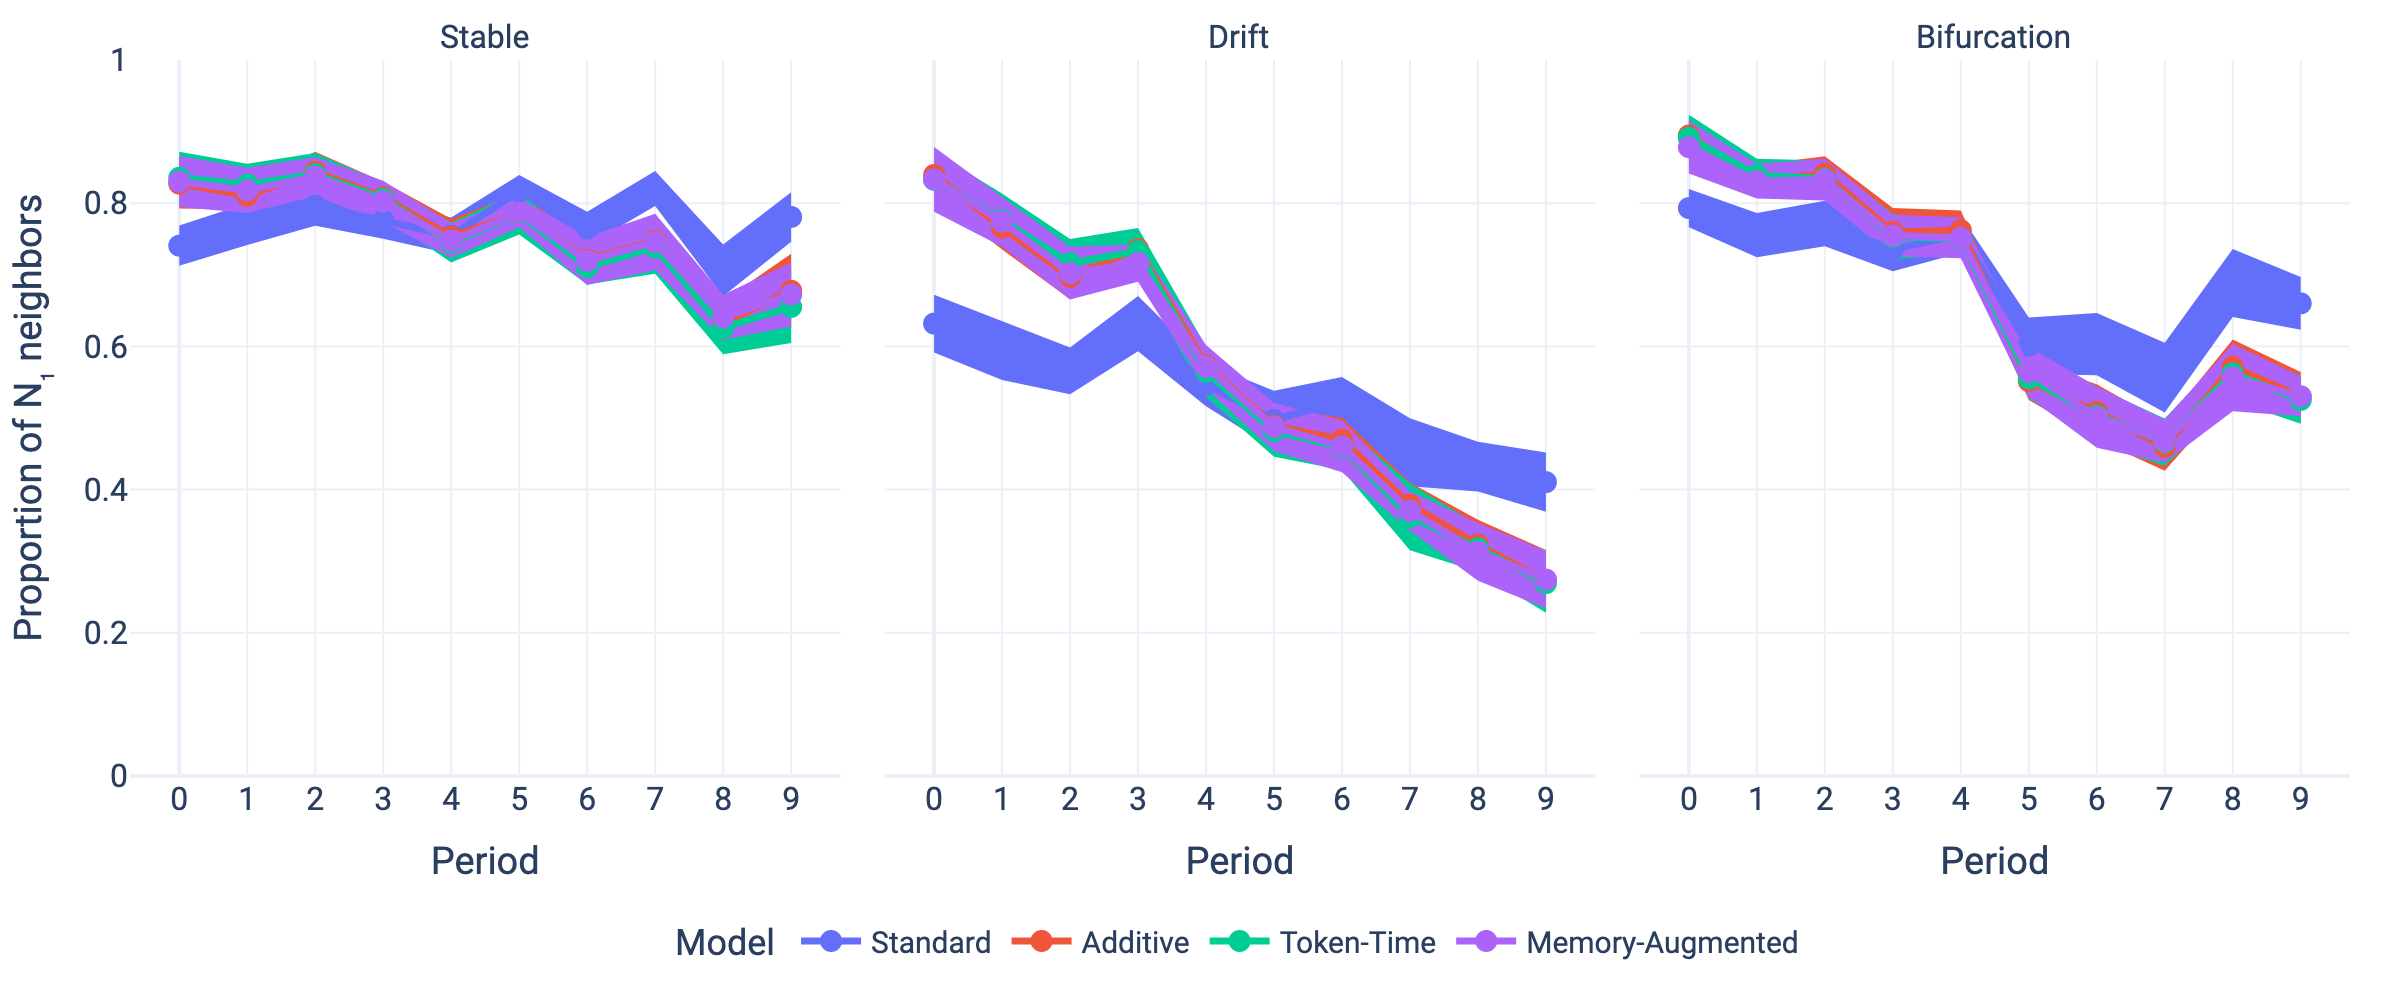
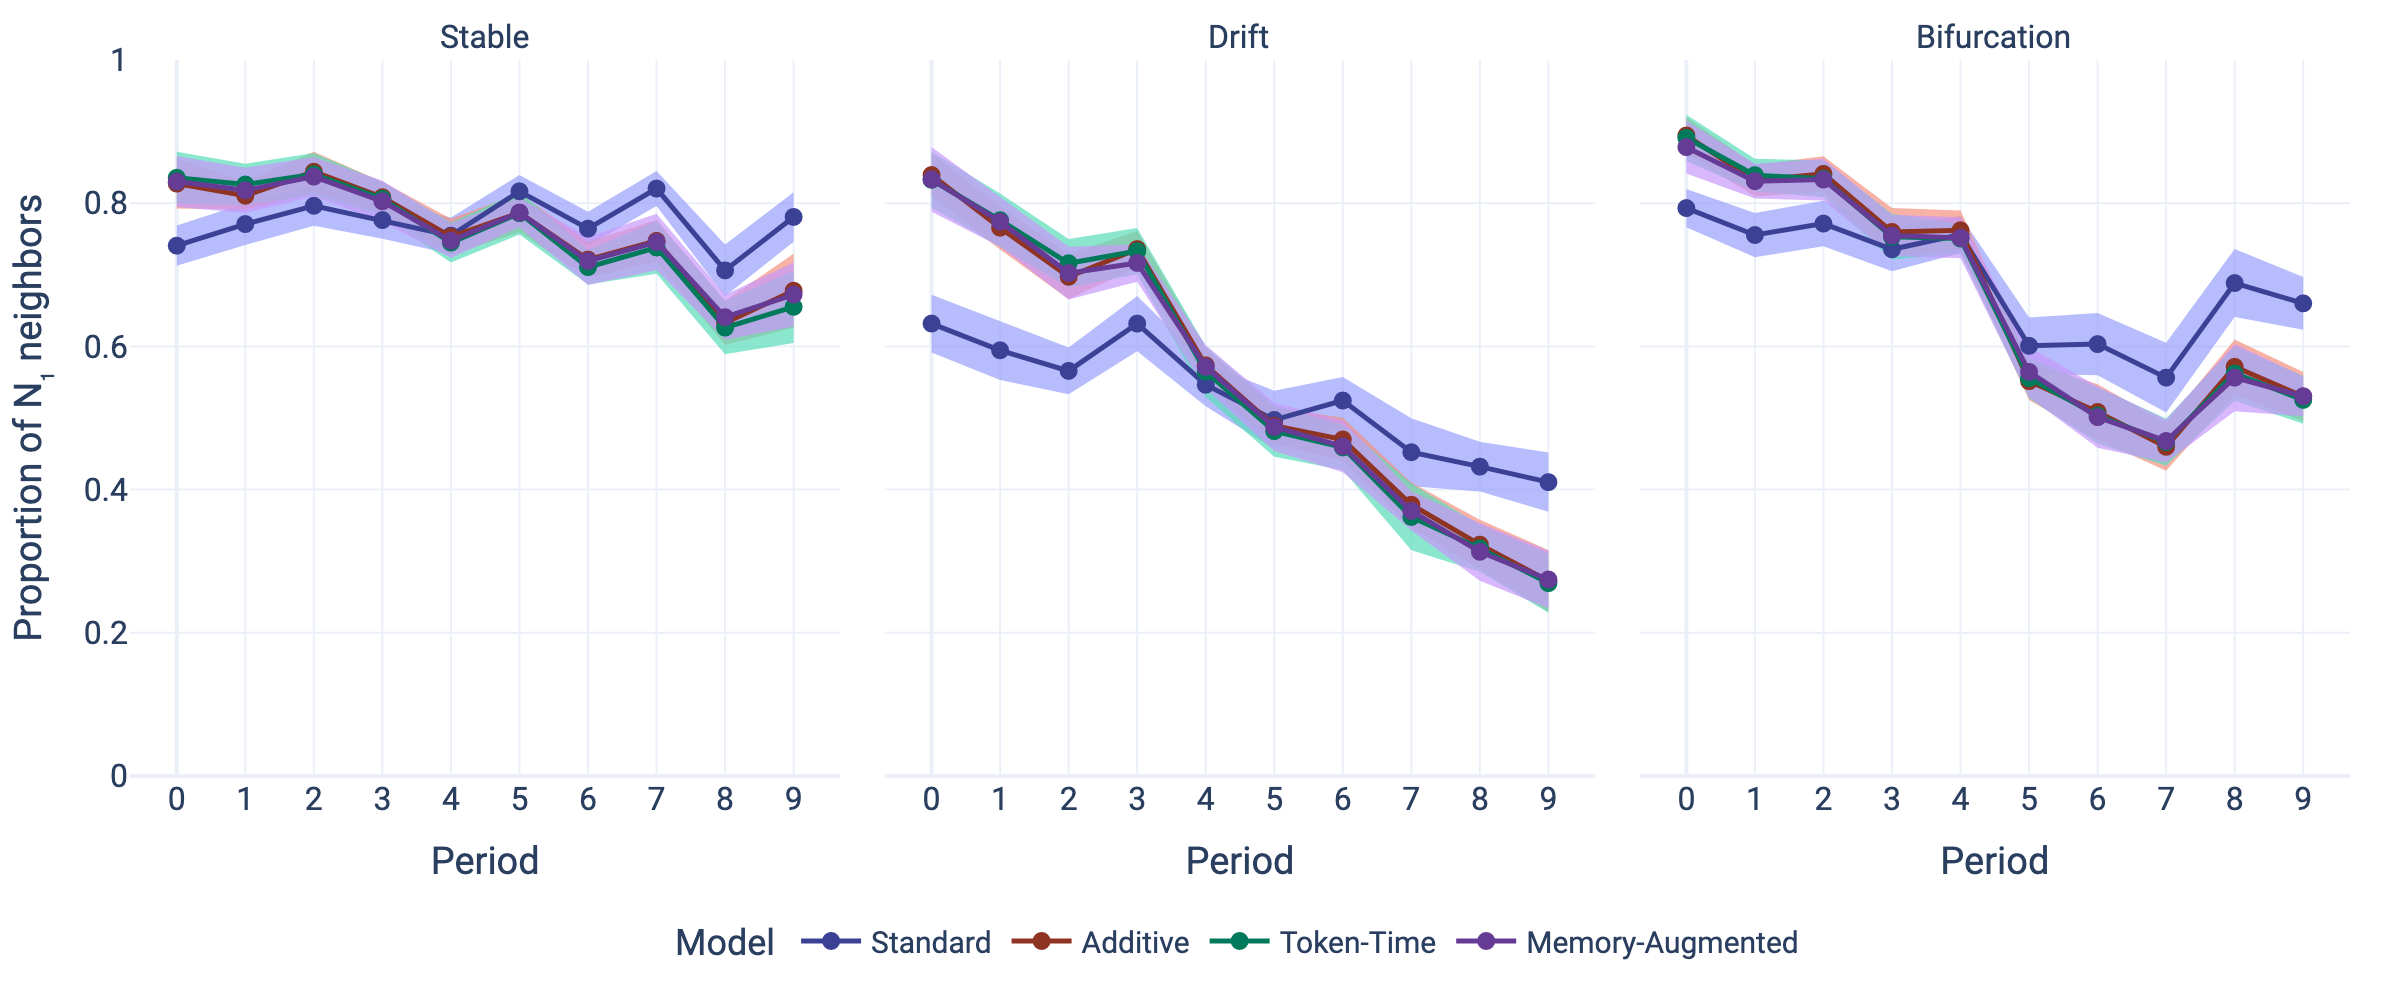
final before submission

diff --git a/scripts/plot_figure3_context_drift.py b/scripts/plot_figure3_context_drift.py
@@ -23,6 +23,36 @@ import plotly.io as pio
 from src.timeformer.nomenclature import model_label
 
 
+# ── Ajuste aqui para testar a aparência das linhas e bandas ──────────────────
+LINE_WIDTH  = 2.5   # espessura das linhas em px
+MARKER_SIZE = 9     # tamanho dos marcadores em px
+LINE_DARK   = 0.60  # escurece a cor da linha   (0.5 = muito escuro | 1.0 = cor original)
+BAND_LIGHT  = 0.35  # clareia a cor da banda     (0.0 = cor original | 1.0 = branco puro)
+BAND_ALPHA  = 0.70  # transparência da banda     (0 = invisível | 1 = sólido)
+# ──────────────────────────────────────────────────────────────────────────────
+
+
+def _to_rgb(color: str) -> tuple[int, int, int]:
+    """Parse hex (#rrggbb) or rgb(r,g,b) string into an (r,g,b) tuple."""
+    color = color.strip()
+    if color.startswith("#"):
+        h = color.lstrip("#")
+        return int(h[0:2], 16), int(h[2:4], 16), int(h[4:6], 16)
+    return tuple(int(v.strip()) for v in color[4:-1].split(","))
+
+
+def _darken(color: str, factor: float) -> str:
+    """Multiply each RGB channel by factor to darken the color."""
+    r, g, b = _to_rgb(color)
+    return f"rgb({int(r*factor)},{int(g*factor)},{int(b*factor)})"
+
+
+def _lighten_rgba(color: str, light: float, alpha: float) -> str:
+    """Blend toward white by light (0=original, 1=white), then add alpha."""
+    r, g, b = _to_rgb(color)
+    r2, g2, b2 = (int(c + (255 - c) * light) for c in (r, g, b))
+    return f"rgba({r2},{g2},{b2},{alpha})"
+
 DEFAULT_MODELS = ("Static", "Additive", "Joint", "Timeformer")
 CLASS_LABELS = {
     "stable": "Stable",
@@ -105,7 +135,7 @@ def make_figure(agg: pd.DataFrame):
         },
     )
 
-    fig.update_traces(line={"width": 3.5}, marker={"size": 11})
+    fig.update_traces(line={"width": LINE_WIDTH}, marker={"size": MARKER_SIZE})
     fig.for_each_annotation(lambda a: a.update(text=a.text.replace("Subject class=", "")))
     fig.update_layout(
         template="plotly_white",
@@ -125,12 +155,19 @@ def make_figure(agg: pd.DataFrame):
     fig.update_yaxes(range=[0, 1], dtick=0.2)
     fig.update_xaxes(dtick=1)
 
-    # Add a light variability band (mean +/- 1 std) behind each line.
+    # Collect original Plotly colors, then darken the line traces.
     colors = {
         trace.name: trace.line.color
         for trace in fig.data
         if getattr(trace, "mode", "") and "lines" in trace.mode
     }
+    for trace in fig.data:
+        if getattr(trace, "mode", "") and "lines" in trace.mode:
+            orig = colors.get(trace.name)
+            if orig:
+                dark = _darken(orig, LINE_DARK)
+                trace.line.color = dark
+                trace.marker.color = dark
     facet_axis_by_class = {
         CLASS_ORDER[0]: ("x", "y"),
         CLASS_ORDER[1]: ("x2", "y2"),
@@ -143,8 +180,8 @@ def make_figure(agg: pd.DataFrame):
             model_df = class_df[class_df["model_label"] == model].sort_values("epoch")
             if model_df.empty:
                 continue
-            rgba = colors.get(model, "#999999")
-            band_color = rgba.replace("rgb(", "rgba(").replace(")", ",0.04)")
+            rgba = colors.get(model, "rgb(153,153,153)")
+            band_color = _lighten_rgba(rgba, BAND_LIGHT, BAND_ALPHA)
             fig.add_scatter(
                 x=list(model_df["epoch"]) + list(model_df["epoch"])[::-1],
                 y=list(model_df["upper"]) + list(model_df["lower"])[::-1],

diff --git a/scripts/plot_figure2_architecture_detail.py b/scripts/plot_figure2_architecture_detail.py
@@ -135,14 +135,14 @@ def _arrowhead(fig: go.Figure,
                x_edge: float, y_edge: float,
                dx: float, dy: float,
                color: str) -> None:
-    """Filled-triangle arrowhead: base at the destination box edge, tip inside the box."""
+    """Filled-triangle arrowhead: tip touches the destination box edge, body stays outside."""
     L = (dx ** 2 + dy ** 2) ** 0.5
     if L < 1e-9:
         return
     t = ENTER_DIST / L
     fig.add_annotation(
-        ax=x_edge,           ay=y_edge,           # base: destination box edge
-        x=x_edge + dx * t,  y=y_edge + dy * t,   # tip: ENTER_DIST inside the box
+        x=x_edge,            y=y_edge,            # tip: exactly at destination box edge
+        ax=x_edge - dx * t,  ay=y_edge - dy * t,  # base: ENTER_DIST outside box (toward source)
         xref="x", yref="y", axref="x", ayref="y",
         showarrow=True, arrowhead=2, text="",
         arrowsize=1.0, arrowwidth=SHAFT_W,